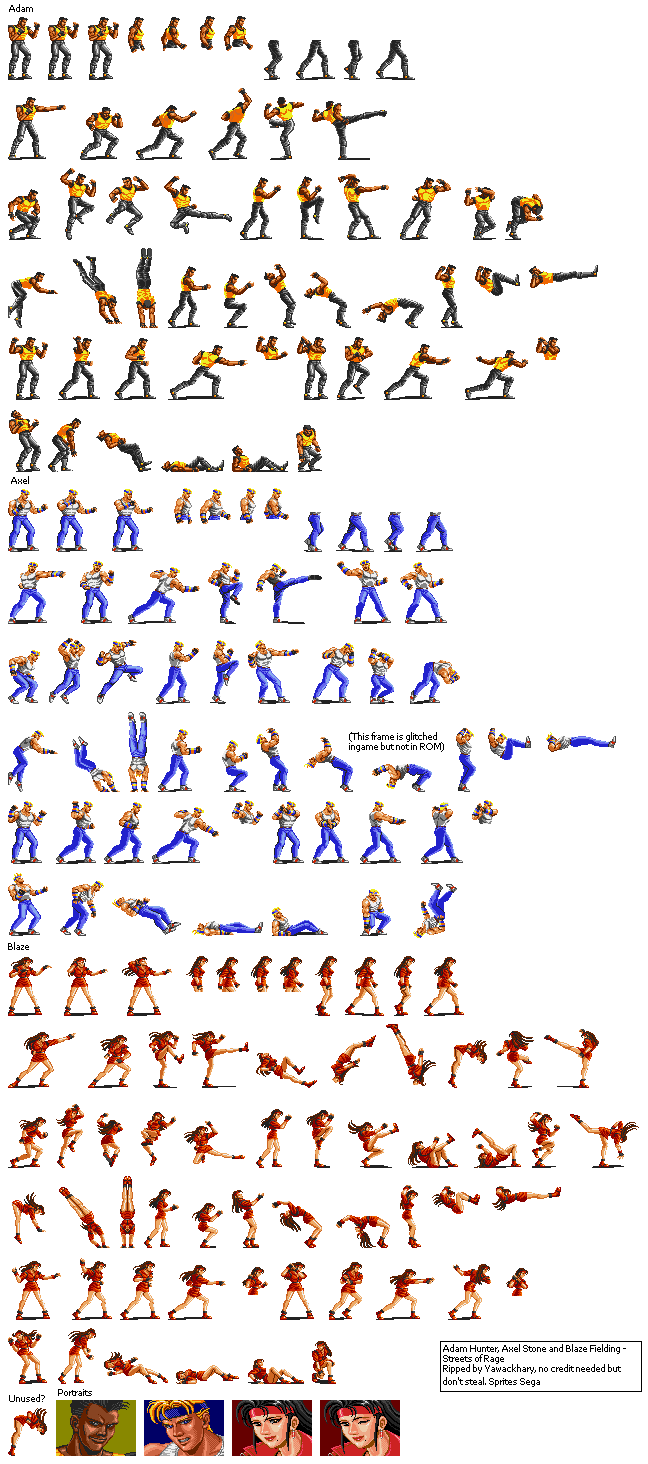
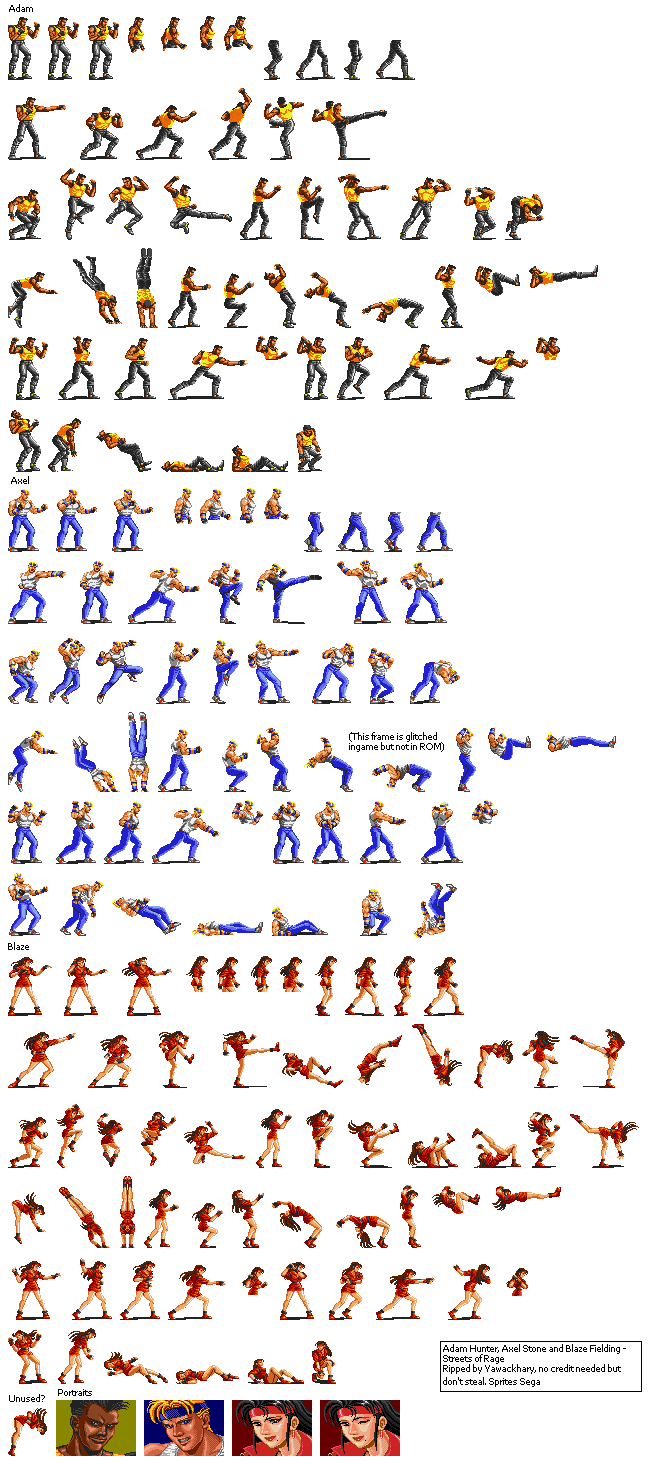
Add Blaze's middle kick

Changed region(s): [[0.216, 0.707, 0.9568, 0.7684]]

diff --git a/src/Player.cpp b/src/Player.cpp
@@ -19,9 +19,9 @@ Player::Player()
 
 	// idle animation
 	for (size_t i = 0; i < 8; ++i)
-		idle.frames.push_back({ 7, 957, 46, 59 });
-	idle.frames.push_back({ 63, 957, 46, 59 });
-	idle.frames.push_back({ 126, 957, 46, 59 });
+		idle.frames.push_back({ 7, 956, 46, 61 });
+	idle.frames.push_back({ 63, 956, 46, 61 });
+	idle.frames.push_back({ 126, 956, 46, 61 });
 	idle.speed = 0.05f;
 
 	// respawning animation
@@ -51,11 +51,18 @@ Player::Player()
 	jumpKick.speed = 0.5f;
 
 	// chop
-	chop.frames.push_back({ 87, 1028, 47, 61 });
+	chop.frames.push_back({ 87, 1028, 45, 61 });
 	chop.frames.push_back({ 7, 1028, 70, 61 });
-	chop.frames.push_back({ 87, 1028, 47, 61 });
+	chop.frames.push_back({ 87, 1028, 45, 61 });
 	chop.loop = false;
 	chop.speed = 0.2f;
+
+	// kick
+	kick.frames.push_back({ 137, 1028, 57, 61 });
+	kick.frames.push_back({ 203, 1028, 77, 61 });
+	kick.frames.push_back({ 137, 1028, 57, 61 });
+	kick.loop = false;
+	kick.speed = 0.2f;
 }
 
 Player::~Player()

diff --git a/src/Creature.cpp b/src/Creature.cpp
@@ -59,7 +59,7 @@ void Creature::hit(Creature* c2) {
 		c2->status = BEING_HIT;
 		break;
 	case 2:
-		this->setCurrentAnimation(&chop);
+		this->setCurrentAnimation(&kick);
 		this->status = ATTACKING;
 		c2->setCurrentAnimation(&(c2->beingHit2));
 		c2->status = BEING_HIT;
@@ -166,7 +166,7 @@ void Creature::handleState()
 		break;
 
 	case ATTACKING:
-		if (attackTimer.getDelta() >= 200) {
+		if (attackTimer.getDelta() >= 300) {
 			velocity += prevVelocity;
 			if (velocity.x != 0.0f || velocity.y != 0.0f) {
 				status = WALK;

diff --git a/src/Creature.h b/src/Creature.h
@@ -52,6 +52,7 @@ public:
 	Animation jumping;
 	Animation jumpKick;
 	Animation chop;
+	Animation kick;
 	Animation respawning;
 	Animation beingHit;
 	Animation beingHit2;
